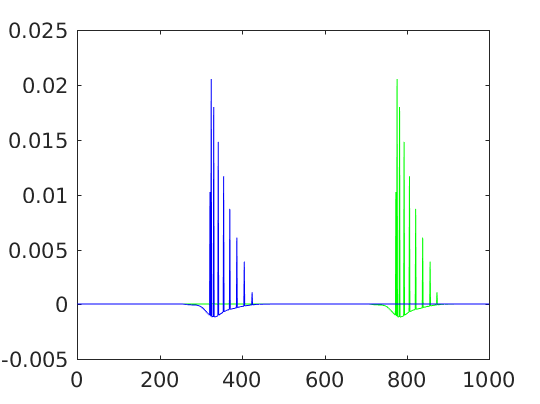
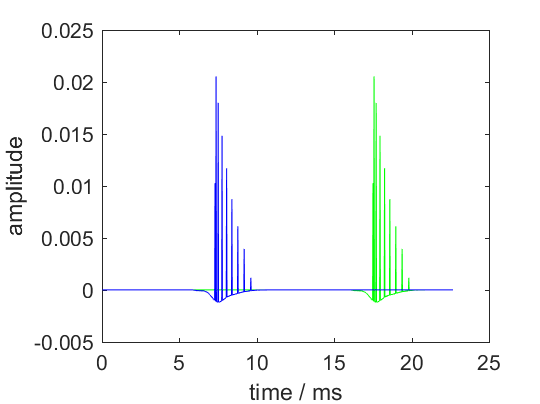
DOC: fix second impulse response plot

diff --git a/doc/img/generate_plots.m b/doc/img/generate_plots.m
@@ -274,17 +274,29 @@ X = [0 0 0];
 phi = 0;
 xs = [2.5 0 0];
 src = 'ps';
+t = (1:1000)/conf.fs*1000;
 hrtf = dummy_irs(conf);
 [ir,~,delay] = ir_wfs(X,phi,xs,src,hrtf,conf);
 figure;
 figsize(540,404,'px');
-plot(ir(1:1000,1),'-g');
+plot(t,ir(1:1000,1),'-g');
 hold on;
 offset = round(delay*conf.fs);
-plot(ir(1+offset:1000+offset,1),'-b');
+plot(t,ir(1+offset:1000+offset,1),'-b');
 hold off;
+xlabel('time / ms');
+ylabel('amplitude');
 print_png('impulse_response_wfs_25d.png');
-
+X = [0 0 0];
+head_orientation = [0 0];
+xs = [2.5 0 0];
+src = 'ps';
+conf = SFS_config;
+conf.N = 1000;
+conf.t0 = 'source';
+time_response_wfs(X,xs,src,conf)
+axis([0 25 -0.005 0.025]);
+print_png('impulse_response_wfs_25d_imp.png');
 
 
 %% ===== frequency response of a spatial audio system ====================

diff --git a/doc/binaural-simulations.rst b/doc/binaural-simulations.rst
@@ -162,17 +162,20 @@ simply use a Dirac impulse as |HRTF| as provided by ``dummy_irs()``.
     head_orientation = [0 0];
     xs = [2.5 0 0];
     src = 'ps';
+    t = (1:1000)/conf.fs*1000;
     hrtf = dummy_irs(conf);
     conf = SFS_config;
     conf.t0 = 'source';
     [ir,~,delay] = ir_wfs(X,head_orientation,xs,src,hrtf,conf);
     figure;
     figsize(540,404,'px');
-    plot(ir(1:1000,1),'-g');
+    plot(t,ir(1:1000,1),'-g');
     hold on;
     offset = round(delay*conf.fs);
-    plot(ir(1+offset:1000+offset,1),'-b');
+    plot(t,ir(1+offset:1000+offset,1),'-b');
     hold off;
+    xlabel('time / ms');
+    ylabel('amplitude');
     %print_png('img/impulse_response_wfs_25d.png');
 
 .. figure:: img/impulse_response_wfs_25d.png
@@ -189,7 +192,7 @@ instances. The green impulse response includes the processing delay that is
 added by `driving_function_imp_wfs()` and other functions performing filtering
 and delaying of signals. This delay is returned by `ir_wfs()` as well and can be
 used to correct it during plotting. The blue impulse response is the corrected
-one, which is now placed at 321 samples which corresponds to the actual distance
+one, which is now placed at 7.3 ms which corresponds to the actual distance
 of the synthesized source of 2.5 m.
 
 The impulse response can also be calculated without involving functions for
@@ -206,9 +209,10 @@ function.
     conf.N = 1000;
     conf.t0 = 'source';
     time_response_wfs(X,xs,src,conf)
+    axis([0 25 -0.005 0.025]);
     %print_png('img/impulse_response_wfs_25d_imp.png');
 
-.. figure:: img/impulse_response_wfs_25d.png
+.. figure:: img/impulse_response_wfs_25d_imp.png
    :align: center
 
    Sound pressure of an impulse synthesized as a point source by 2.5D
